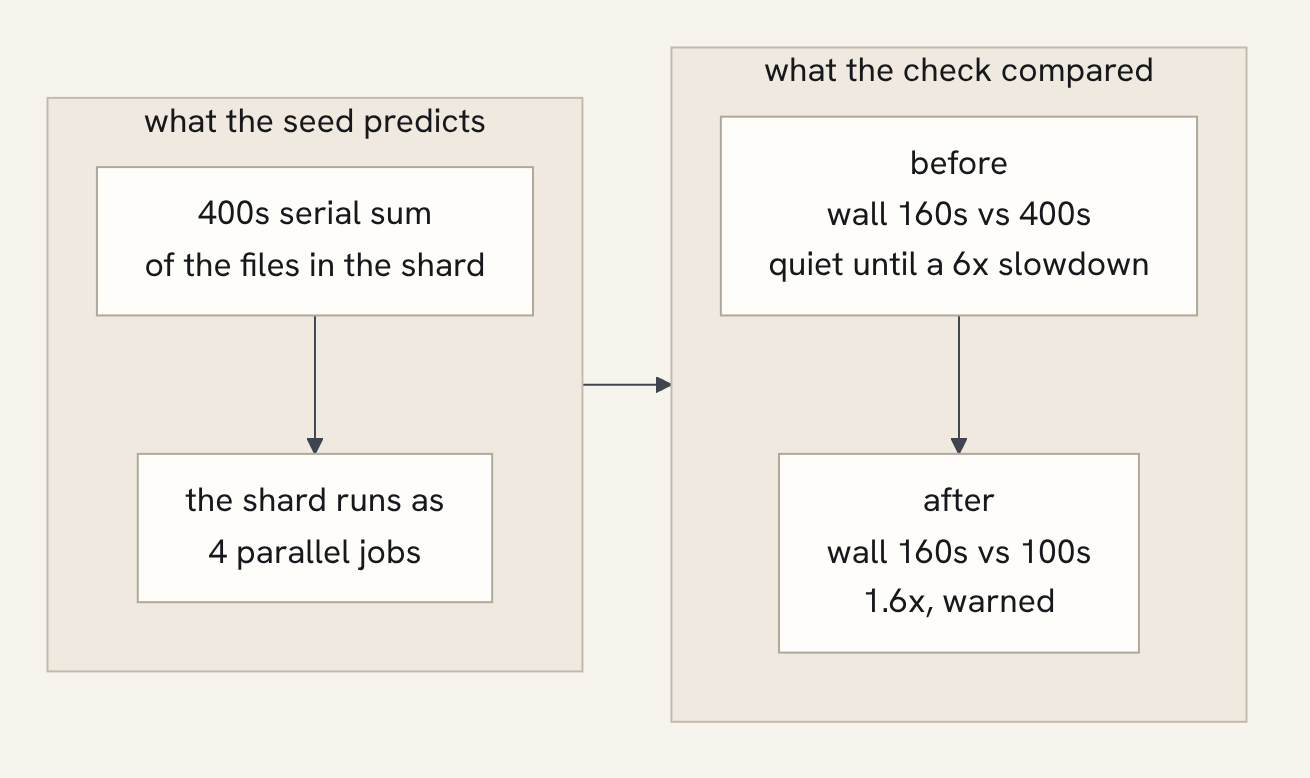
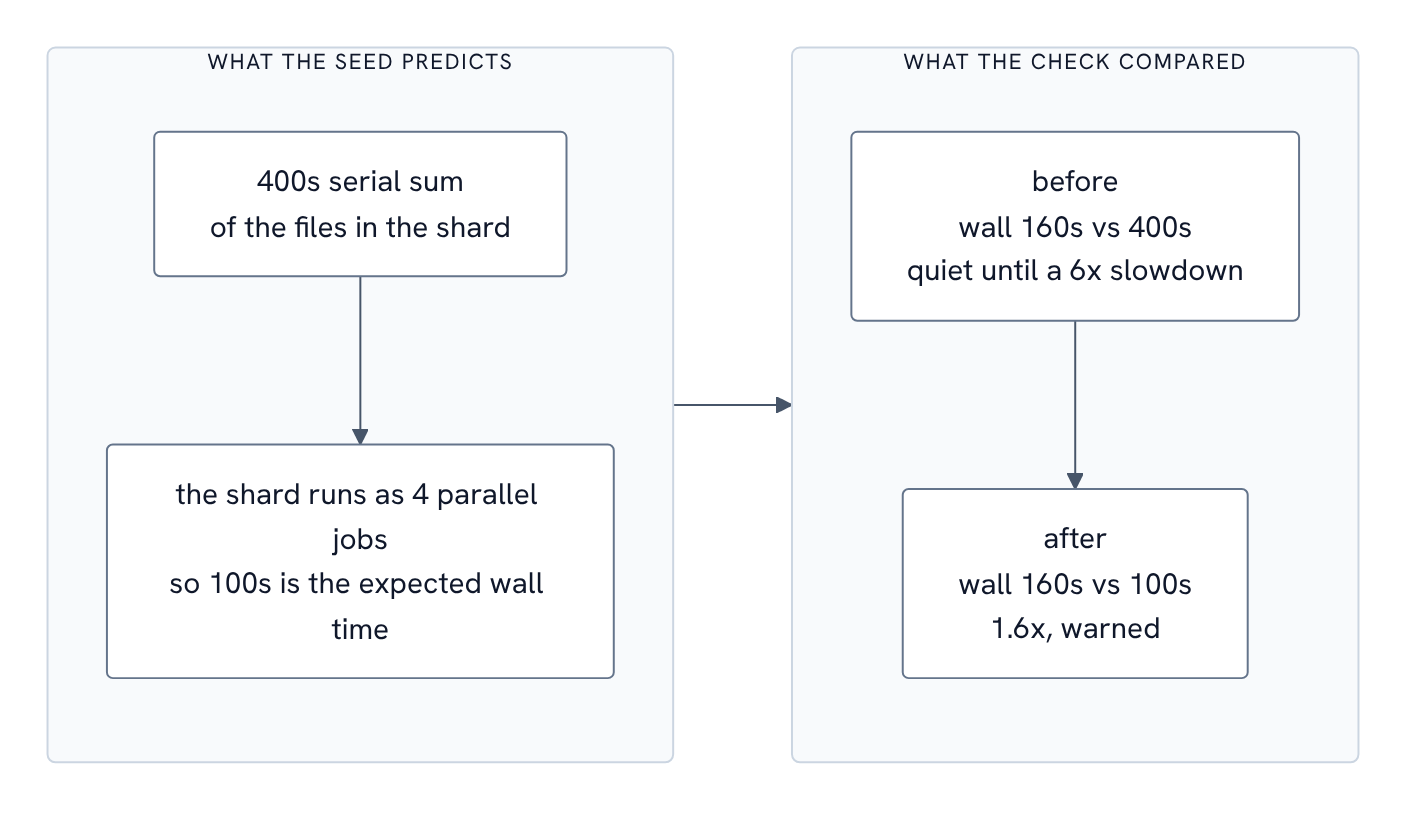
diagrams: architect style for article diagrams (#18)

diff --git a/src/content/posts/a-ci-warning-that-goes-quiet-when-the-shard-is-split.md b/src/content/posts/a-ci-warning-that-goes-quiet-when-the-shard-is-split.md
@@ -82,6 +82,6 @@ The version of this mistake that costs the most is the quiet one. It does not fa
 The diagram for this piece is short on purpose. One seed number, one division, two verdicts:
 
 <figure>
-  <img src="/diagrams/shard-overrun-warning-compared-the-wrong-number-0.svg" alt="A seed predicts 400 seconds of serial work for the shard, which runs as 4 parallel jobs so 100 seconds is the expected wall time. Before, the check compared 160 seconds with 400 seconds and stayed quiet until a six-fold slowdown. After, it compared 160 seconds with 100 seconds, found 1.6 times, and warned." width="653" height="389" loading="lazy" decoding="async">
+  <img src="/diagrams/shard-overrun-warning-compared-the-wrong-number-0.svg" alt="A seed predicts 400 seconds of serial work for the shard, which runs as 4 parallel jobs so 100 seconds is the expected wall time. Before, the check compared 160 seconds with 400 seconds and stayed quiet until a six-fold slowdown. After, it compared 160 seconds with 100 seconds, found 1.6 times, and warned." width="709" height="409" loading="lazy" decoding="async">
   <figcaption>The same 160 seconds, two verdicts, one division apart.</figcaption>
 </figure>

diff --git a/src/content/posts/why-this-blog-exists.md b/src/content/posts/why-this-blog-exists.md
@@ -33,7 +33,7 @@ are the source of truth, and a push rebuilds the published site.
 ## Where else this appears
 
 <figure>
-  <img src="/diagrams/why-this-blog-exists-0.svg" alt="Publishing flow in three stages. Signal: merged pull requests enter a candidate queue that is scored and deduplicated. Selection: one candidate is picked per week, trend-checked, then drafted in markdown. Publishing: the diagram is rendered, the article goes live here as the canonical page, and is cross-posted to dev.to with canonical_url." width="843" height="462" loading="lazy" decoding="async">
+  <img src="/diagrams/why-this-blog-exists-0.svg" alt="Publishing flow in three stages. Signal: merged pull requests enter a candidate queue that is scored and deduplicated. Selection: one candidate is picked per week, trend-checked, then drafted in markdown. Publishing: the diagram is rendered, the article goes live here as the canonical page, and is cross-posted to dev.to with canonical_url." width="861" height="522" loading="lazy" decoding="async">
   <figcaption>From merged pull request to canonical page.</figcaption>
 </figure>
 
